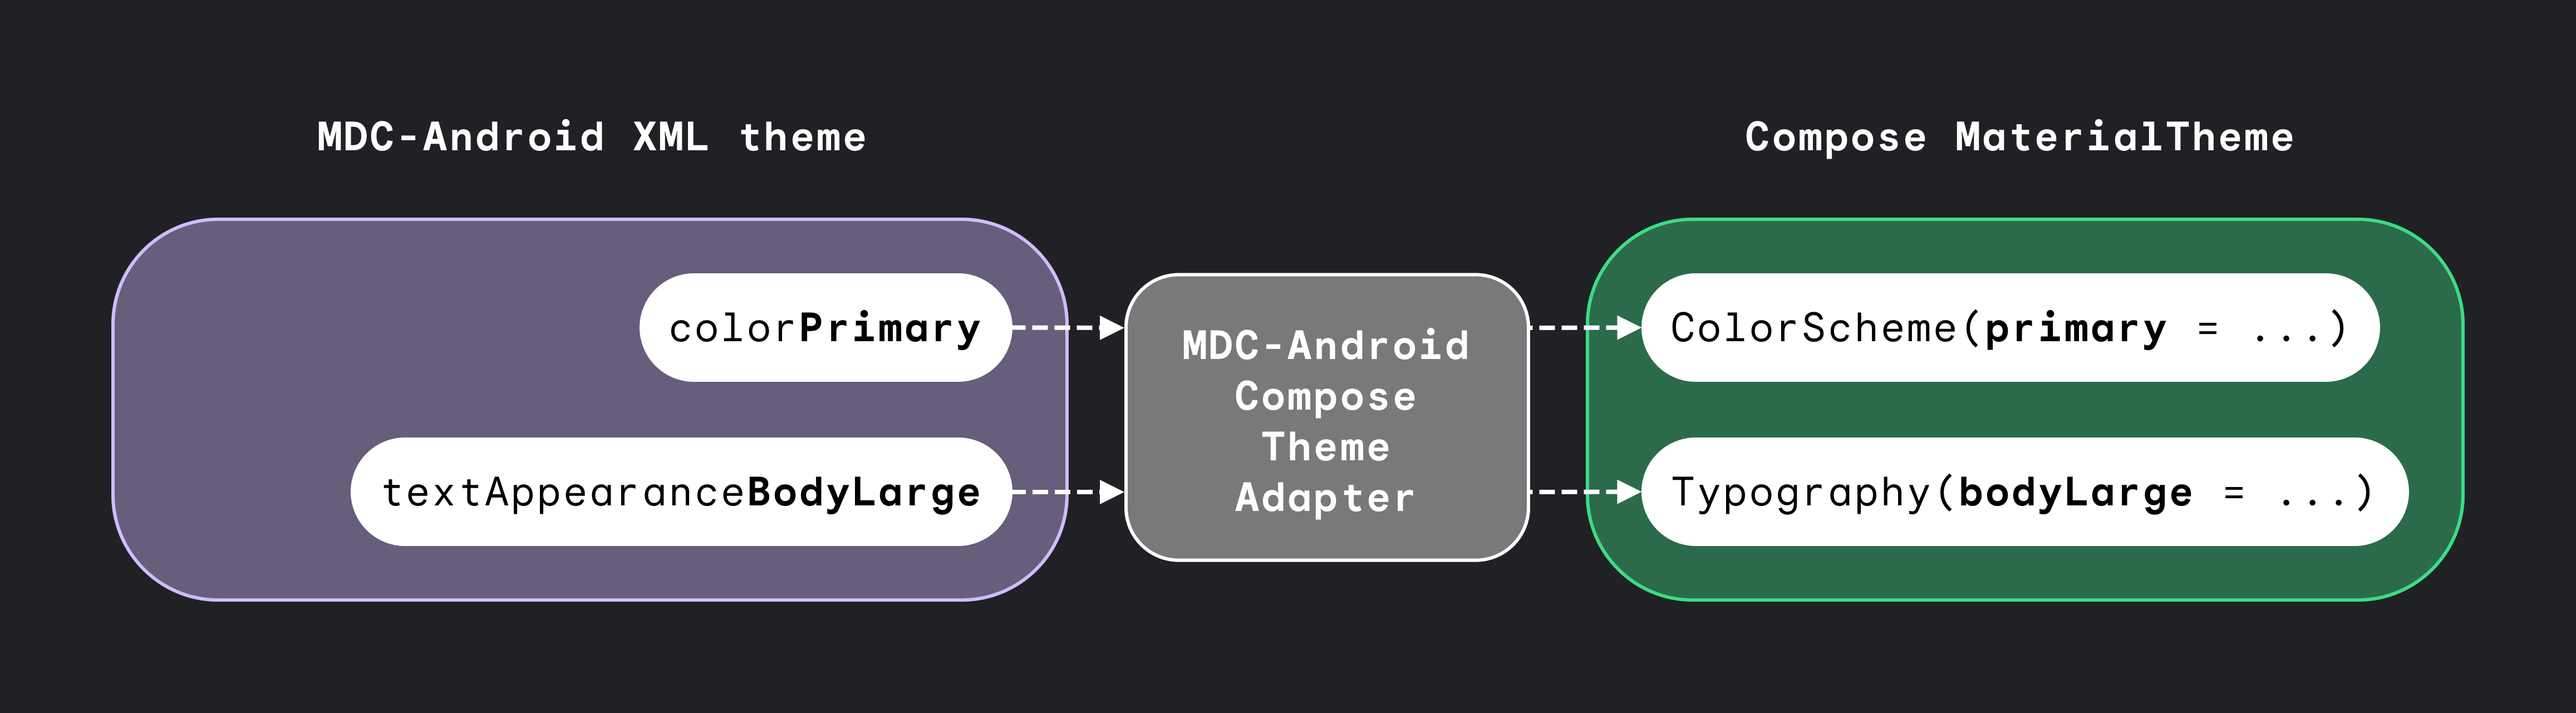
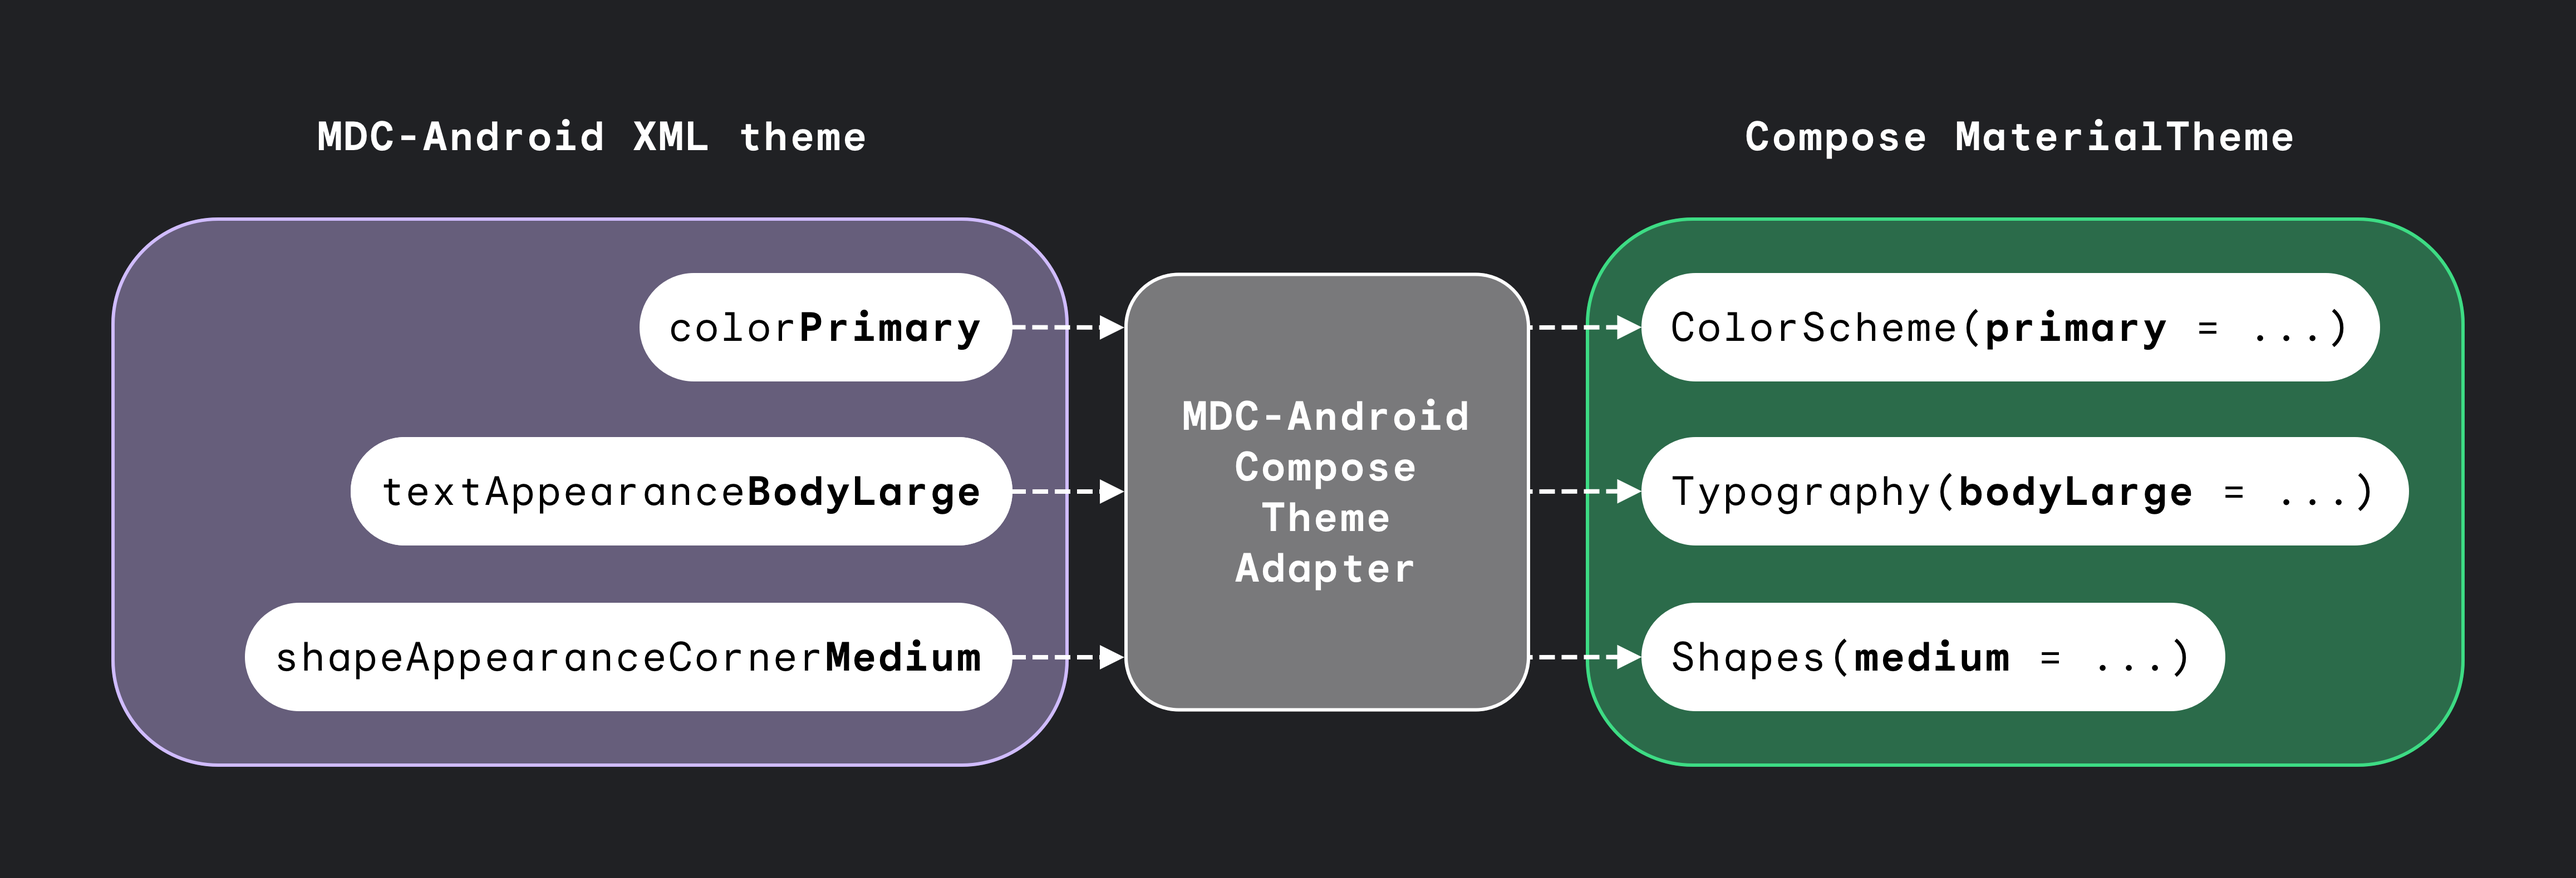
Update README

diff --git a/README.md b/README.md
@@ -34,7 +34,7 @@ See the [releases](https://github.com/material-components/material-components-an
 
 ![MDC-Android Compose Theme Adapter header](docs/header.png)
 
-The basis of Material Design 2 theming in [Jetpack Compose][compose] is the [`MaterialTheme`][materialtheme] composable, where you provide [`Colors`][colors], [`Shapes`][shapes] and [`Typography`][typography] instances containing your styling parameters:
+The basis of Material Design 2 theming in [Jetpack Compose][compose] is the [`MaterialTheme`][materialtheme] composable, where you provide [`Colors`][colors], [`Typography`][typography] and [`Shapes`][shapes] instances containing your styling parameters:
 
 ``` kotlin
 MaterialTheme(
@@ -68,7 +68,7 @@ This library attempts to bridge the gap between [Material Components for Android
 
 ``` kotlin
 MdcTheme {
-    // MaterialTheme.colors, MaterialTheme.shapes, MaterialTheme.typography
+    // MaterialTheme.colors, MaterialTheme.typography, MaterialTheme.shapes
     // will now contain copies of the Context's theme
 }
 ```
@@ -76,7 +76,7 @@ MdcTheme {
 This is especially handy when you're migrating an existing app, a `Fragment` (or other UI container) at a time.
 
 !!! caution
-    If you are using an AppCompat (i.e. non-MDC) theme in your app, you should use the
+    If you are using an AppCompat (i.e. non-MDC) theme in your app, you should use
     [AppCompat Compose Theme Adapter](https://github.com/google/accompanist/tree/main/appcompat-theme)
     instead, as it attempts to bridge the gap between [AppCompat][appcompat] XML themes, and M2 themes in [Jetpack Compose][compose].
 
@@ -118,12 +118,13 @@ There are some known limitations with the implementation at the moment:
 
 ![MDC-Android Compose Theme Adapter header](docs/m3header.png)
 
-The basis of Material Design 3 theming in [Jetpack Compose][compose] is the [`MaterialTheme`][m3materialtheme] composable, where you provide [`ColorScheme`][m3colorscheme] and [`Typography`][m3typography] instances containing your styling parameters:
+The basis of Material Design 3 theming in [Jetpack Compose][compose] is the [`MaterialTheme`][m3materialtheme] composable, where you provide [`ColorScheme`][m3colorscheme], [`Typography`][m3typography] and [`Shapes`][m3shapes] instances containing your styling parameters:
 
 ``` kotlin
 MaterialTheme(
     colorScheme = colorScheme,
-    typography = typography
+    typography = typography,
+    shapes = shapes
 ) {
     // M3 Surface, Scaffold, etc.
 }
@@ -141,6 +142,9 @@ MaterialTheme(
     <!-- Material 3 type attributes-->
     <item name="textAppearanceBodyLarge">@style/TextAppearance.MyApp.BodyLarge</item>
     <item name="textAppearanceBodyMedium">@style/TextAppearance.MyApp.BodyMedium</item>
+    
+    <!-- Material 3 shape attributes-->
+    <item name="shapeAppearanceCornerSmall">@style/ShapeAppearance.MyApp.CornerSmall</item>
 </style>
 ```
 
@@ -149,7 +153,7 @@ This library attempts to bridge the gap between [Material Components for Android
 
 ``` kotlin
 Mdc3Theme {
-    // MaterialTheme.colorScheme, MaterialTheme.typography
+    // MaterialTheme.colorScheme, MaterialTheme.typography, MaterialTheme.shapes
     // will now contain copies of the Context's theme
 }
 ```
@@ -162,16 +166,17 @@ The `Mdc3Theme()` function will automatically read the host `Context`'s MDC them
 
 ``` kotlin
 val context = LocalContext.current
-var (colorScheme, typography) = createMdc3Theme(
+var (colorScheme, typography, shapes) = createMdc3Theme(
     context = context
 )
 
-// Modify colorScheme or typography as required.
+// Modify colorScheme, typography or shapes as required.
 // Then pass them through to MaterialTheme...
 
 MaterialTheme(
     colorScheme = colorScheme,
-    typography = typography
+    typography = typography,
+    shapes = shapes
 ) {
     // Rest of M3 layout
 }
@@ -184,6 +189,7 @@ There are some known limitations with the implementation at the moment:
 * This relies on your `Activity`/`Context` theme extending one of the `Theme.Material3` themes.
 * Text colors are not read from the text appearances by default. You can enable it via the `setTextColors` function parameter.
 * Variable fonts are not supported in Compose yet, meaning that the value of `android:fontVariationSettings` are currently ignored.
+* MDC `ShapeAppearances` allow setting of different corner families (cut, rounded) on each corner, whereas Compose's [Shapes][m3shapes] allows only a single corner family for the entire shape. Therefore only the `app:cornerFamily` attribute is read, others (`app:cornerFamilyTopLeft`, etc) are ignored.
 * You can modify the resulting `MaterialTheme` in Compose as required, but this _only_ works in Compose. Any changes you make will not be reflected in the `Activity` theme.
 
 ---
@@ -226,4 +232,5 @@ limitations under the License.
  [shapes]: https://developer.android.com/reference/kotlin/androidx/compose/material/Shapes
  [m3materialtheme]: https://developer.android.com/reference/kotlin/androidx/compose/material3/MaterialTheme
  [m3colorscheme]: https://developer.android.com/reference/kotlin/androidx/compose/material3/ColorScheme
+ [m3shapes]: https://developer.android.com/reference/kotlin/androidx/compose/material3/Shapes
  [m3typography]: https://developer.android.com/reference/kotlin/androidx/compose/material3/Typography
